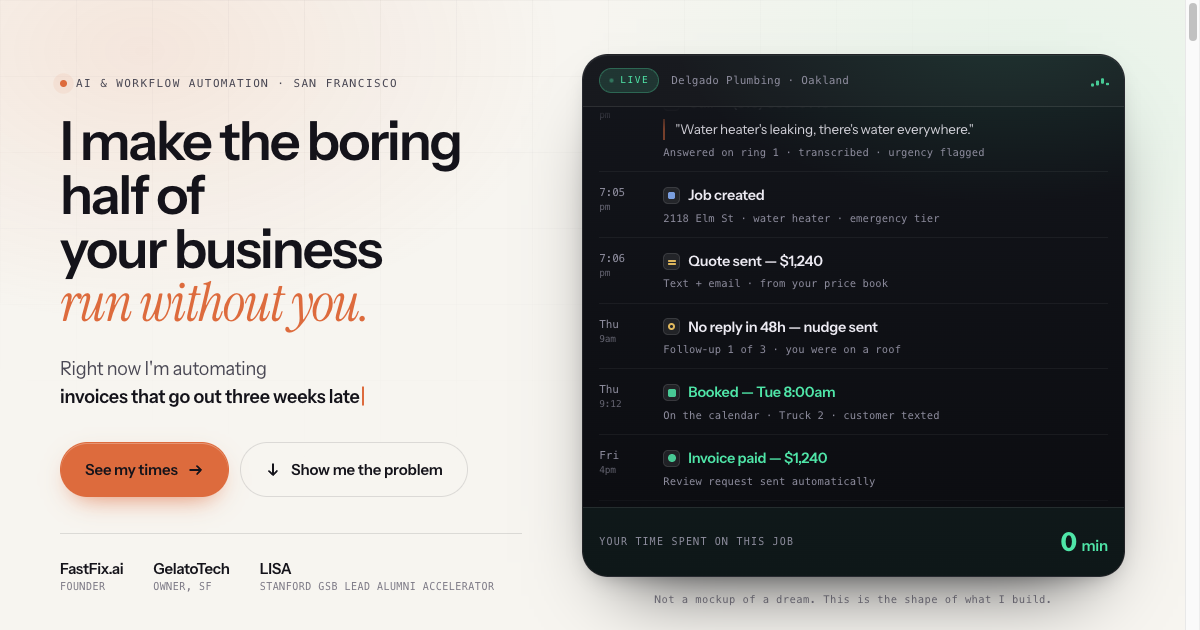
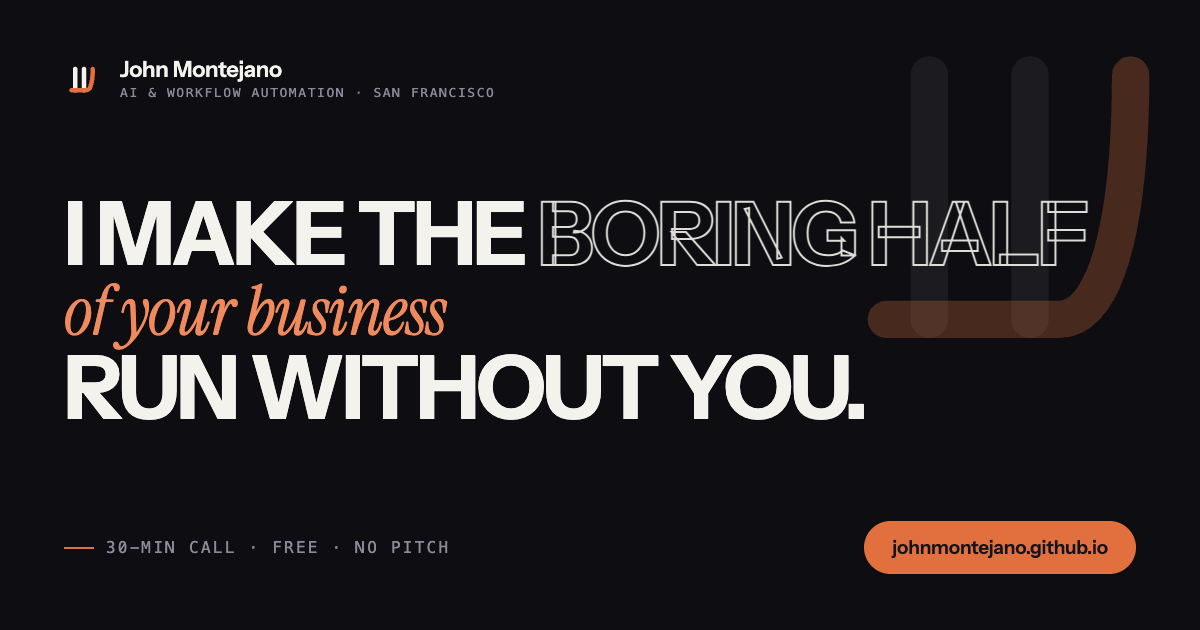
Mobile audit pass: one left edge, readable labels, fixed cap grid; social previews + SEO/AEO
MOBILE (from a measured audit at 390 and 360, then eyeballing every section):
- The worth band and the marquee note were the only centered blocks on
  mobile. Everything else reads from a 20px left edge; they now share it.
- Real layout bug in What I automate: .cap__n is a <span>, so the mobile
  rule 'span{grid-column:2}' caught the number and pushed each TITLE into
  the 44px number column, wrapping word-by-word under an overlapping
  description. Grid placement is now explicit per element.
- Load-bearing mono labels sat at 9.5-10.5px on phones: the DEMO/Simulated
  honesty labels, event metadata, proof roles and scene captions all rise
  to 11-11.5px on mobile.
- Section rhythm tightened on phones (101px to 72px padding).
- Timeline indent eased 26 to 22px so step cards hug the shared edge.

SHARING (SMS / Instagram / iMessage / X):
- og-card.png regenerated in the current dark design language (it was
  still the previous paper-era card): headline stack, falling-column
  mark, orange URL pill, real site fonts.
- twitter:card block added (it was missing entirely), plus
  og:image:width/height/alt, og:site_name, og:locale, twitter:image:alt.

SEO/AEO:
- WebSite node added to the JSON-LD graph alongside Person,
  ProfessionalService and FAQPage; author meta; sitemap lastmod bumped.

Verified in headless Chrome: no console or network errors, no horizontal
overflow at 390/360/1440. Lighthouse mobile: performance 96,
[…]

diff --git a/index.html b/index.html
@@ -7,11 +7,22 @@
 <meta name="description" content="I build the system that answers your phone, books the appointment, chases the follow-up and sends the invoice. Automation for plumbing, HVAC, repair, clinics, salons and any appointment business. San Francisco.">
 <link rel="icon" href="favicon.svg" type="image/svg+xml">
 <link rel="apple-touch-icon" href="apple-touch-icon.png">
+<meta name="author" content="John Montejano">
+<meta property="og:site_name" content="John Montejano">
+<meta property="og:locale" content="en_US">
 <meta property="og:title" content="John Montejano — the boring half of your business, automated">
-<meta property="og:description" content="Your phone gets answered. Your quotes get chased. Your invoices go out. You don't touch any of it.">
+<meta property="og:description" content="Your phone gets answered. Your quotes get chased. Your invoices go out. You don't touch any of it. 30-minute call, free.">
 <meta property="og:type" content="website">
 <meta property="og:url" content="https://johnmontejano.github.io/">
 <meta property="og:image" content="https://johnmontejano.github.io/assets/img/og-card.png">
+<meta property="og:image:width" content="1200">
+<meta property="og:image:height" content="630">
+<meta property="og:image:alt" content="John Montejano — I make the boring half of your business run without you. AI and workflow automation, San Francisco.">
+<meta name="twitter:card" content="summary_large_image">
+<meta name="twitter:title" content="John Montejano — the boring half of your business, automated">
+<meta name="twitter:description" content="Your phone gets answered. Your quotes get chased. Your invoices go out. You don't touch any of it. 30-minute call, free.">
+<meta name="twitter:image" content="https://johnmontejano.github.io/assets/img/og-card.png">
+<meta name="twitter:image:alt" content="John Montejano — I make the boring half of your business run without you.">
 <meta name="theme-color" content="#0e0e12">
 <link rel="canonical" href="https://johnmontejano.github.io/">
 <link rel="preload" href="assets/type/instrument-sans.woff2" as="font" type="font/woff2" crossorigin>
@@ -32,6 +43,14 @@
       "sameAs": ["https://www.linkedin.com/in/johnmontejano/"],
       "address": { "@type": "PostalAddress", "addressLocality": "San Francisco", "addressRegion": "CA", "addressCountry": "US" },
       "knowsAbout": ["Workflow automation", "AI phone answering", "Service business operations", "CRM integration"]
+    },
+    {
+      "@type": "WebSite",
+      "@id": "https://johnmontejano.github.io/#website",
+      "url": "https://johnmontejano.github.io/",
+      "name": "John Montejano — Automation for service businesses",
+      "publisher": { "@id": "#john" },
+      "inLanguage": "en-US"
     },
     {
       "@type": "ProfessionalService",

diff --git a/styles.css b/styles.css
@@ -740,11 +740,17 @@ html.js .ev.is-in{opacity:1;transform:none}
    ───────────────────────────────────────────── */
 @media (max-width:1023px){
   .demo__inner{grid-template-columns:1fr;gap:30px}
-  .cap{grid-template-columns:44px minmax(0,1fr)}
-  .cap span{grid-column:2}
+  /* .cap__n is also a <span>, so the bare `span{grid-column:2}` rule was
+     catching the number, pushing the TITLE into the 44px number column where
+     it wrapped word-by-word under the overlapping description. Scope the
+     placement explicitly. */
+  .cap{grid-template-columns:44px minmax(0,1fr);gap:6px 16px}
+  .cap__n{grid-column:1;grid-row:1}
+  .cap b{grid-column:2;grid-row:1}
+  .cap>span:not(.cap__n){grid-column:2;grid-row:2}
   .proj{grid-template-columns:1fr;gap:24px}
   .proj__frame{order:-1}
-  .how__grid{grid-template-columns:1fr;gap:40px;padding-top:0;padding-left:26px}
+  .how__grid{grid-template-columns:1fr;gap:40px;padding-top:0;padding-left:22px}
   .how__rail{top:0;bottom:0;left:0;width:2px;height:auto}
   .how__rail i{transform:scaleY(0);transform-origin:top}
   .about .sec__inner{grid-template-columns:1fr;gap:30px}
@@ -755,6 +761,23 @@ html.js .ev.is-in{opacity:1;transform:none}
 }
 @media (max-width:760px){
   body{font-size:16px}
+  /* one left edge for the whole page: the worth band and the marquee note were
+     the only centered blocks on mobile and they broke the reading rhythm */
+  .worth{text-align:left}
+  .worth .tag{justify-content:flex-start}
+  .worth__p{margin:22px 0 0;max-width:none}
+  .trades__note{text-align:left;margin:0 0 24px;max-width:none}
+  /* tighter section rhythm: the page measured 19 viewport-heights */
+  .sec{padding-top:72px;padding-bottom:72px}
+  .leaks{padding-top:72px;padding-bottom:72px}
+  .demo{padding-top:60px;padding-bottom:60px}
+  /* small mono labels carried real information at 9.5-10.5px */
+  .machine__k{font-size:11.5px}
+  .machine__live{font-size:11px}
+  .ev__meta{font-size:11.5px}
+  .ev__t small{font-size:10px}
+  .scene__out{font-size:11.5px}
+  .hero__proof span{font-size:11.5px}
   .nav{gap:12px}
   .nav__links,.nav__cta{display:none}
   .nav__burger{display:block;margin-left:auto}
@@ -776,7 +799,7 @@ html.js .ev.is-in{opacity:1;transform:none}
   .machine__feed{height:min(52vh,400px)}
 }
 @media (max-width:400px){
-  .eyebrow{font-size:10.5px;letter-spacing:.1em}
+  .eyebrow{font-size:11.5px;letter-spacing:.09em}
 }
 
 /* ─────────────────────────────────────────────
